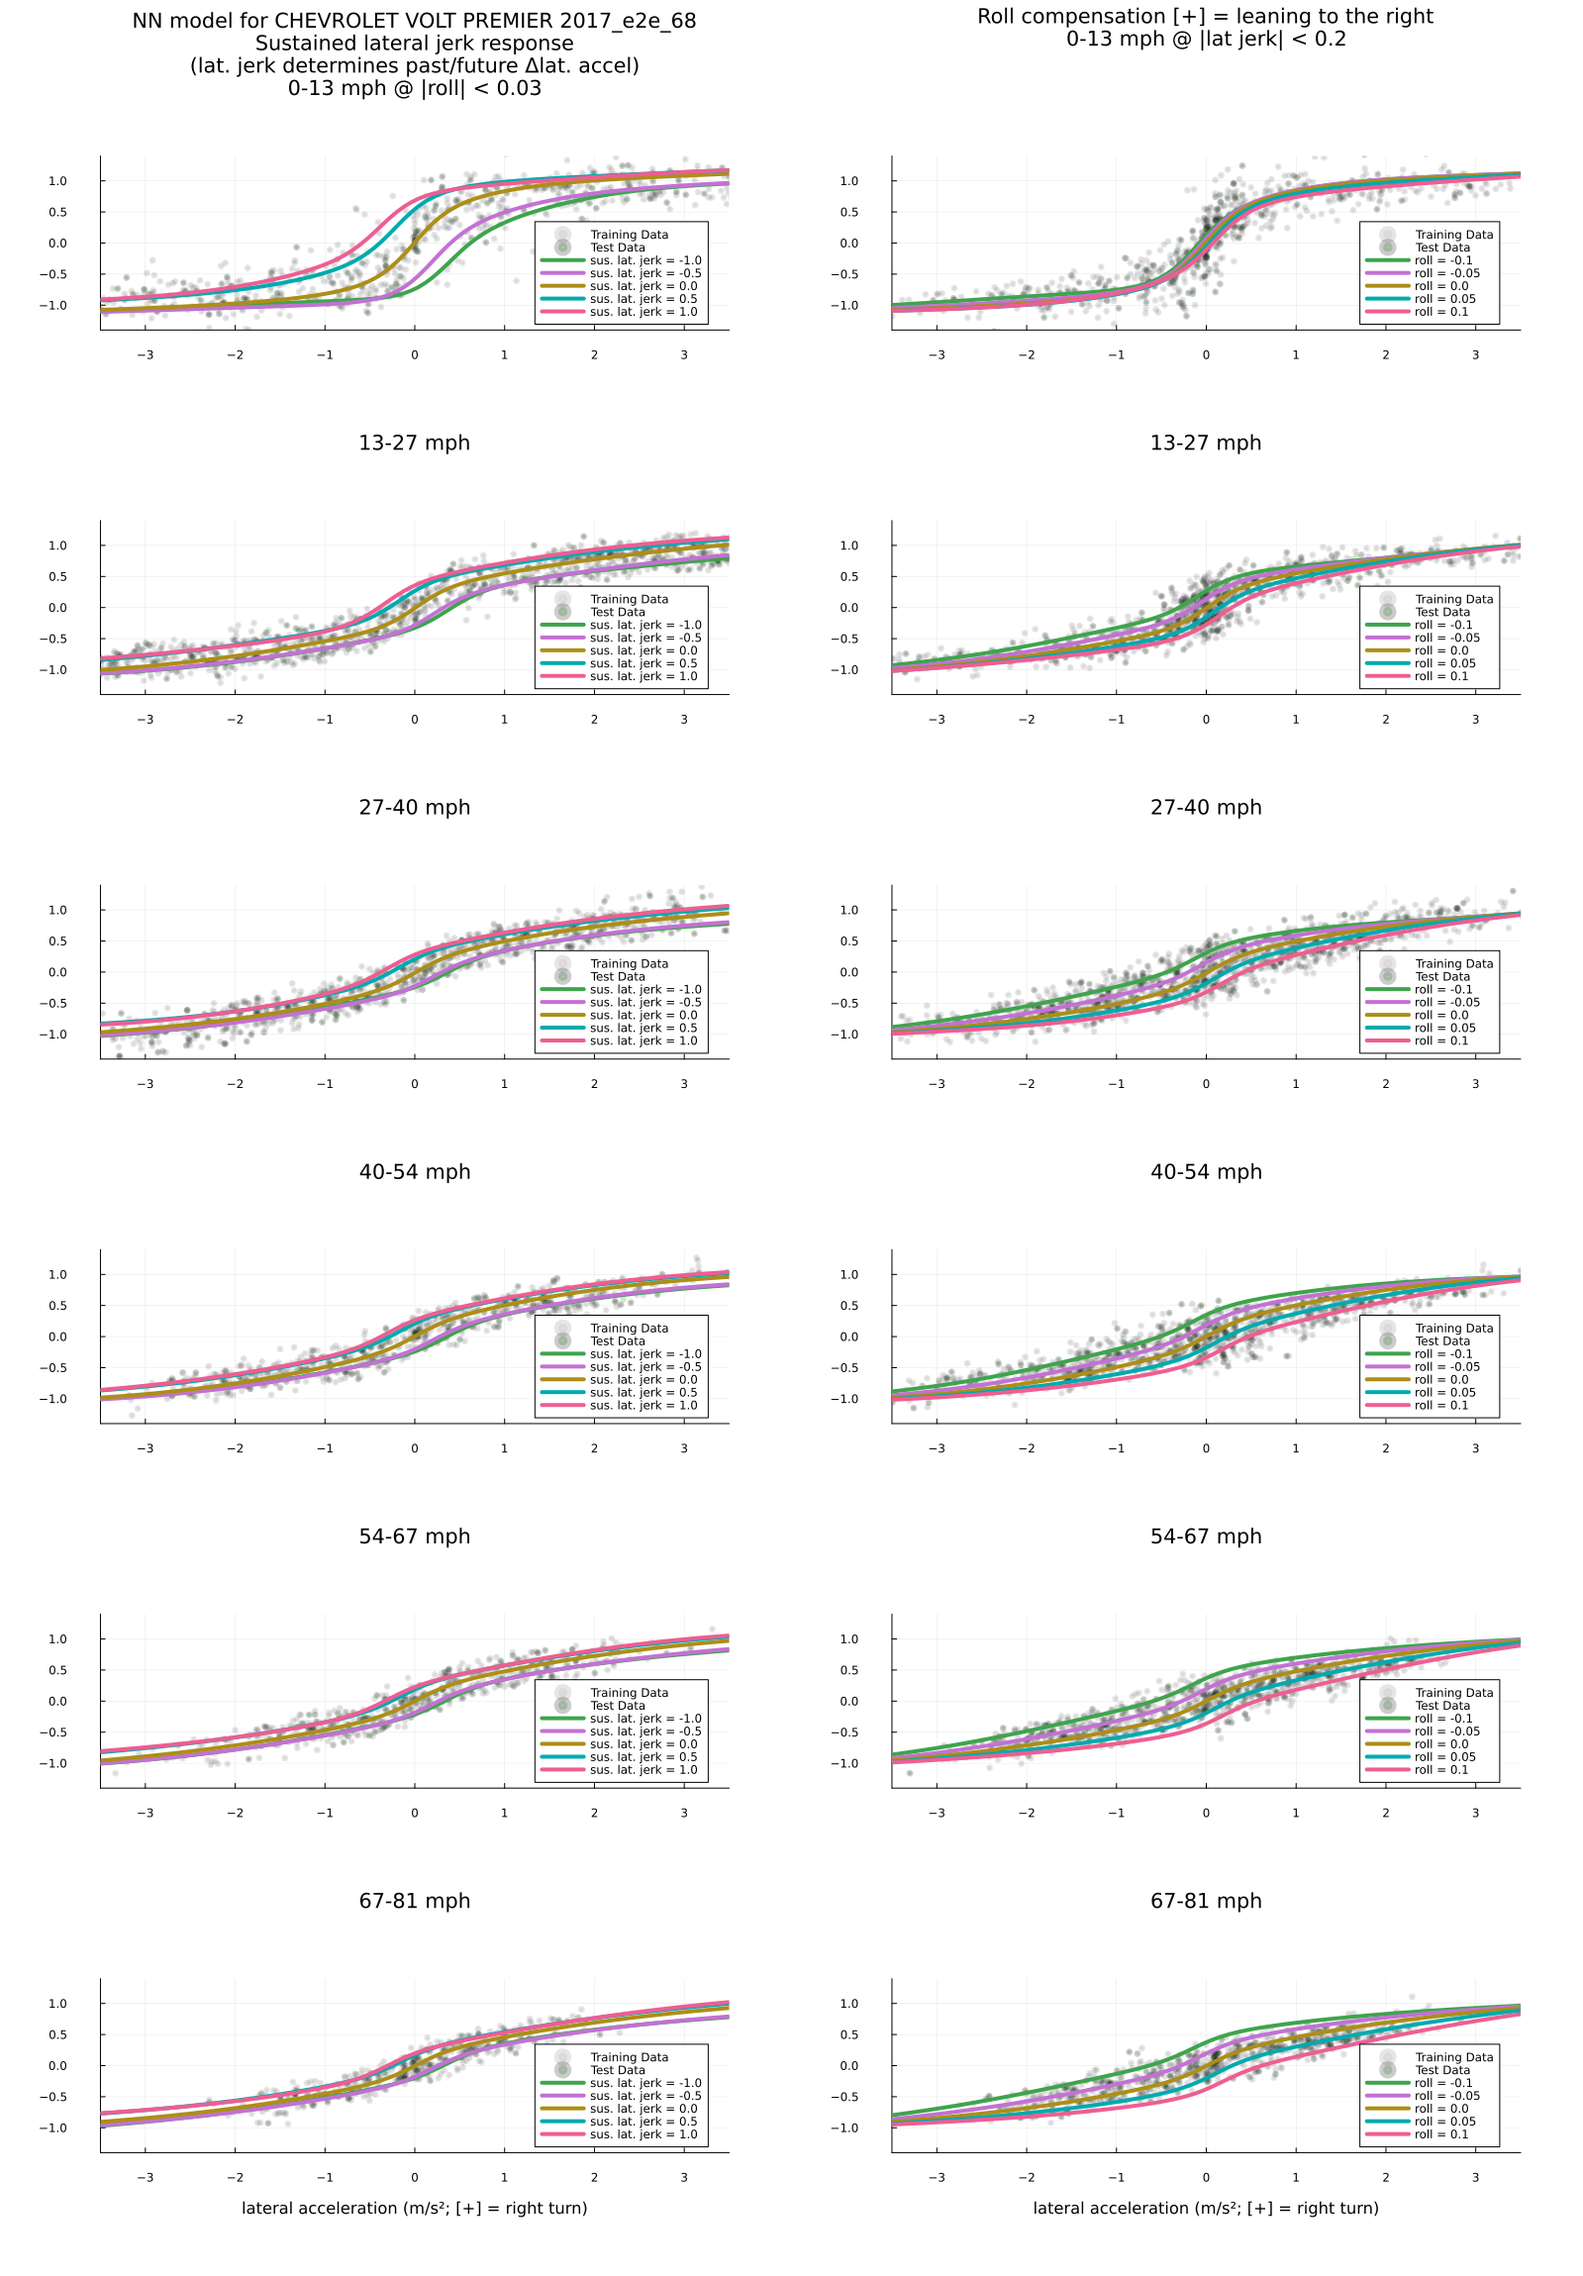
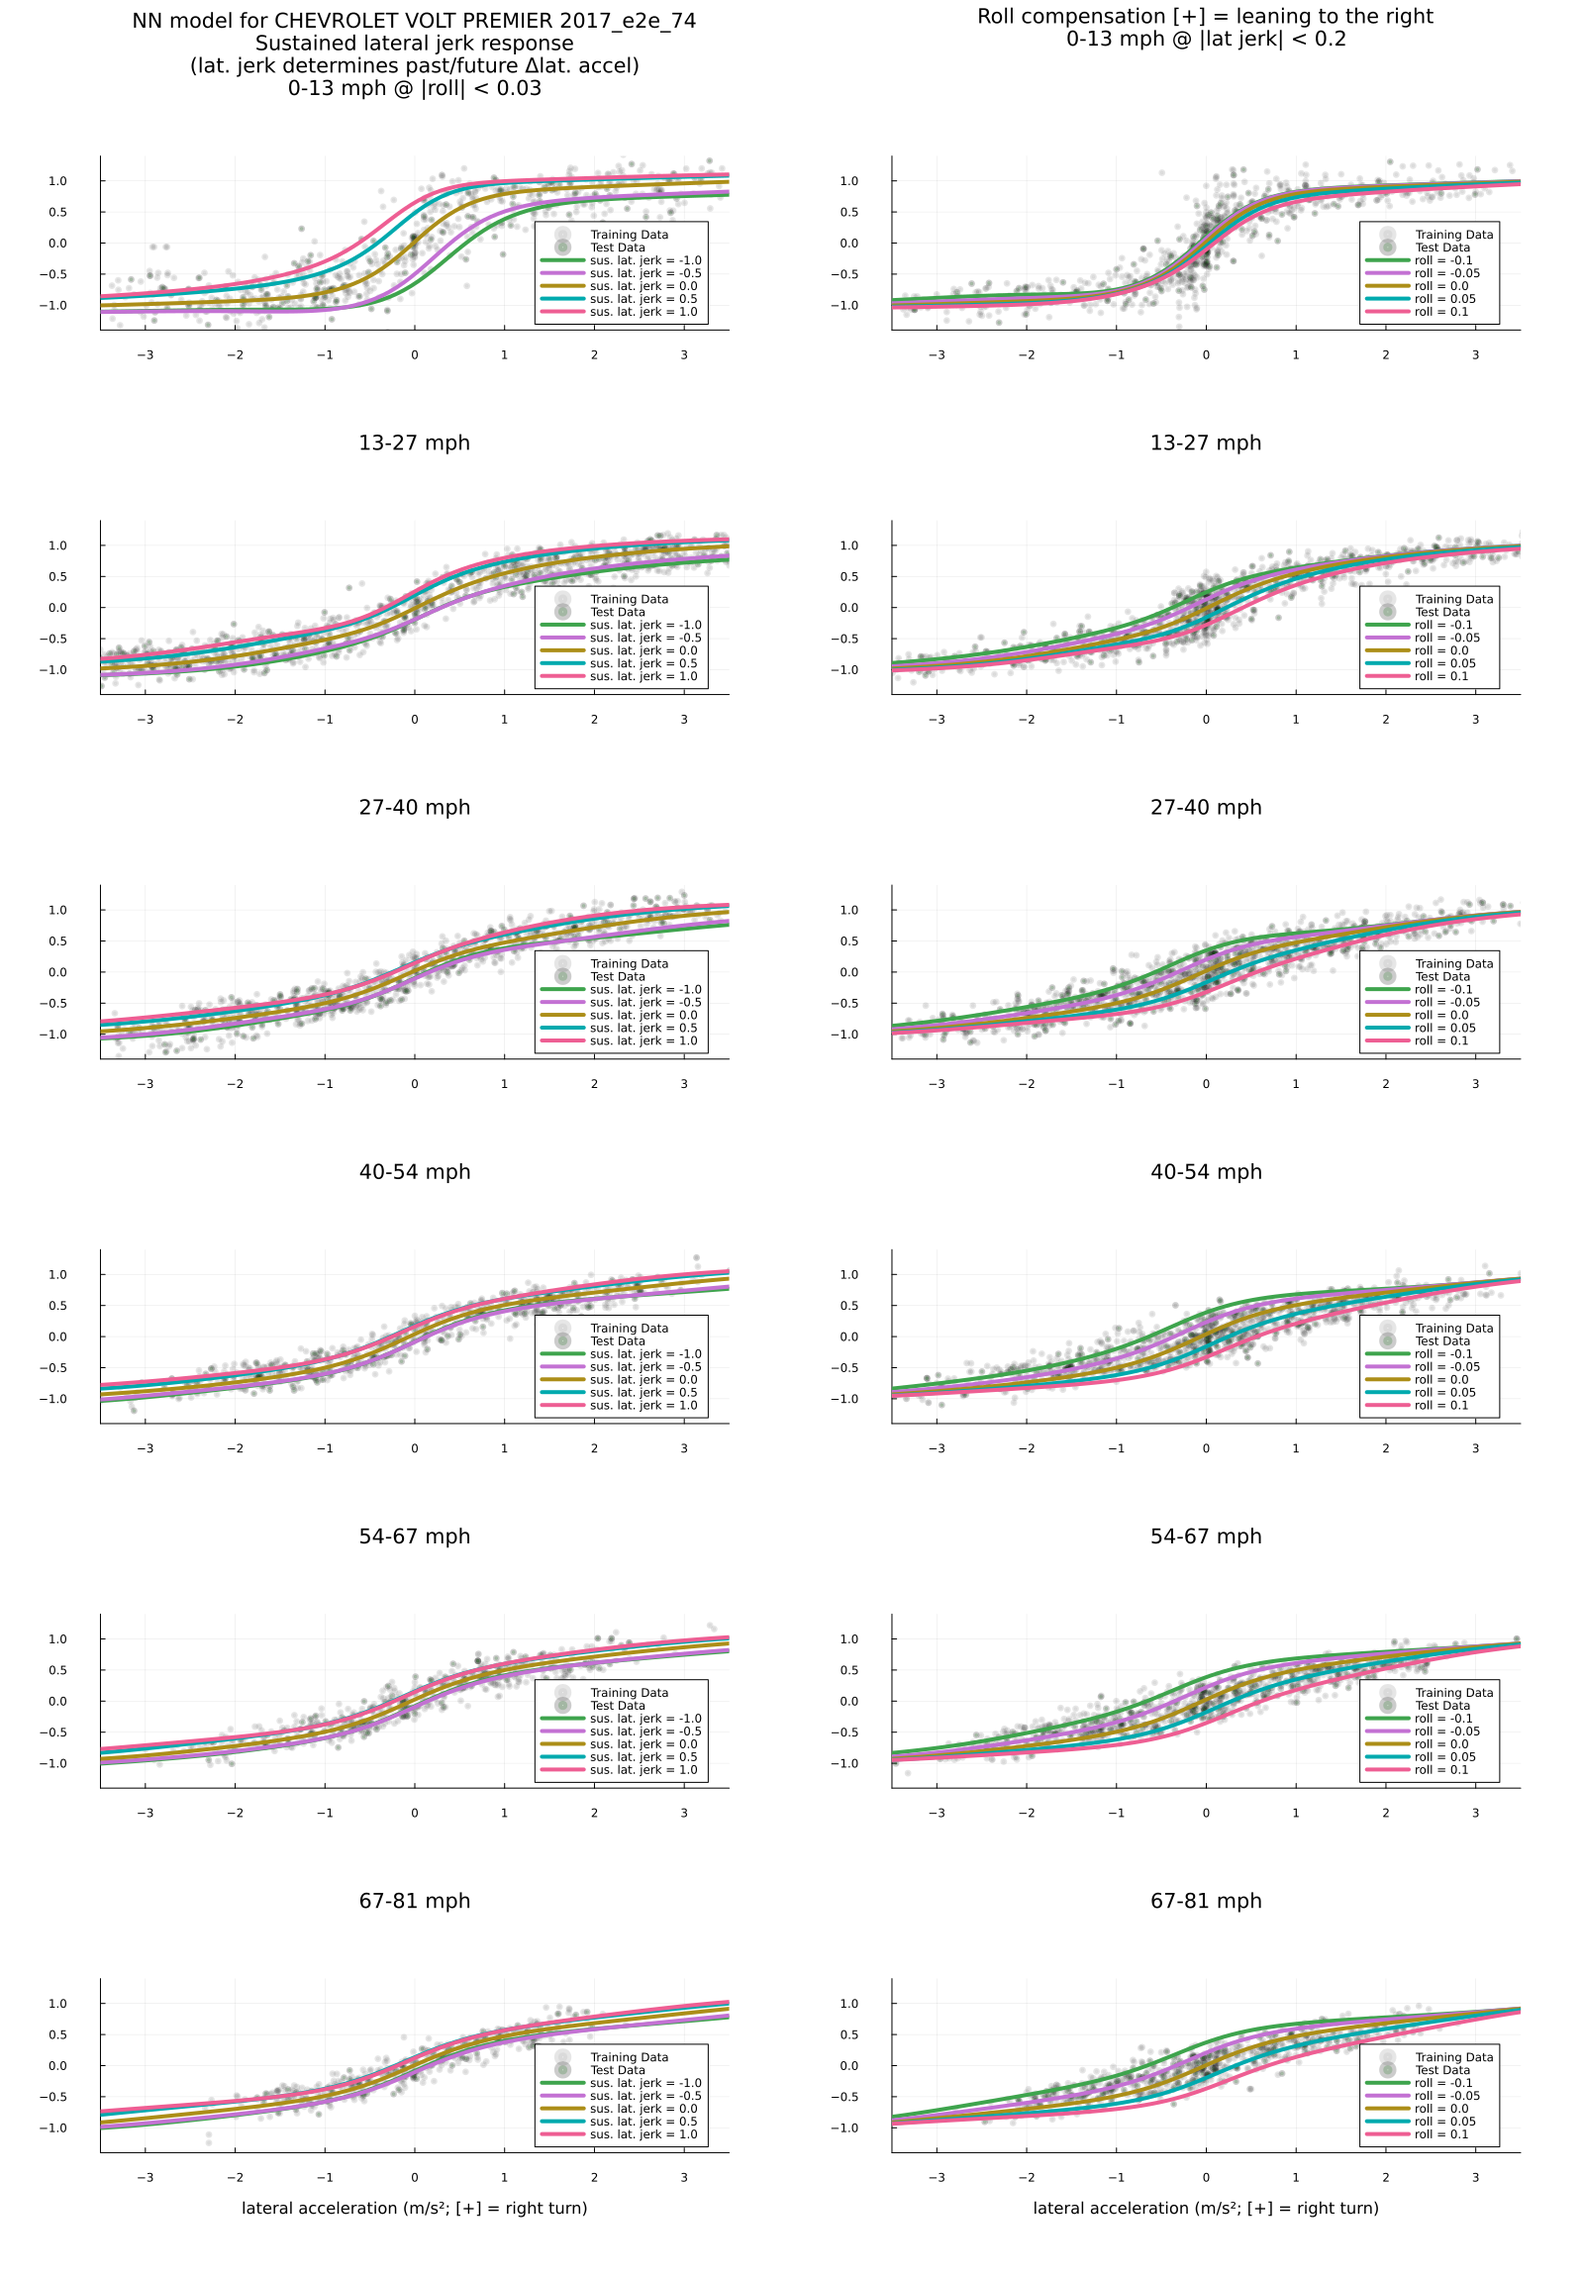
volt e2e nnff mk6

diff --git a/selfdrive/controls/lib/latcontrol_torque.py b/selfdrive/controls/lib/latcontrol_torque.py
@@ -54,12 +54,6 @@ class LatControlTorque(LatControl):
       self.roll_deque = deque(maxlen=history_frames)
       self.nnff_alpha_up_down = [0.3, 0.15] # for increasing/decreasing magnitude of lat accel/jerk
       # Scale down desired lateral acceleration under moderate curvature to prevent cutting corners.
-      self.nnff_la_scale_k_bp = [0.0] 
-      self.nnff_la_scale_k_v = [1.0]
-      # At very low speeds, stop downscaling lateral accel to still allow for hard turns.
-      # We'll do this by taking the max of the two scaling factors.
-      self.nnff_la_scale_v_bp = [6.0, 10.0]
-      self.nnff_la_scale_v_v = [1.0, min(self.nnff_la_scale_k_v)]
 
     self.param_s = Params()
     self.custom_torque = self.param_s.get_bool("CustomTorqueLateral")
@@ -104,44 +98,6 @@ class LatControlTorque(LatControl):
       # desired_lateral_jerk = desired_curvature_rate * CS.vEgo ** 2
       actual_lateral_accel = actual_curvature * CS.vEgo ** 2
       lateral_accel_deadzone = curvature_deadzone * CS.vEgo ** 2
-      
-      if self.use_nn:
-        # prepare input data for NNFF model        
-        roll = params.roll
-        desired_roll = interp(self.nnff_time_offset, T_IDXS, model_data.orientation.x) + roll
-        alpha = self.nnff_alpha_up_down[0 if abs(desired_lateral_accel) > abs(self.nnff_lat_accel_filtered.x) else 1]
-        self.nnff_lat_accel_filtered.update_alpha(alpha)
-        self.nnff_lat_jerk_filtered.update_alpha(alpha)
-        self.nnff_lat_accel_filtered.update(desired_lateral_accel)
-        self.nnff_lat_jerk_filtered.update(desired_lateral_jerk)
-        if len(self.lat_accel_deque) == self.lat_accel_deque.maxlen:
-          past_lat_accel = self.lat_accel_deque[0]
-          past_lat_jerk = self.lat_jerk_deque[0]
-          past_roll = self.roll_deque[0]
-        else:
-          past_lat_accel = actual_lateral_accel
-          past_lat_jerk = actual_lateral_jerk
-          past_roll = roll
-        self.lat_accel_deque.append(desired_lateral_accel)
-        self.lat_jerk_deque.append(desired_lateral_jerk)
-        self.roll_deque.append(roll)
-          
-        
-        friction = self.torque_from_lateral_accel(0.0, self.torque_params,
-                                          desired_lateral_accel - actual_lateral_accel,
-                                          lateral_accel_deadzone, friction_compensation=True)
-        friction *= self.error_scale_factor.x
-        
-        la_offset = 0.5 * (self.nnff_lat_accel_filtered.x - actual_lateral_accel)
-        lj_offset = 0.5 * (self.nnff_lat_jerk_filtered.x - actual_lateral_jerk)
-        roll_offset = 0.5 * (desired_roll - roll)
-        
-        nnff_input = [CS.vEgo, actual_lateral_accel + la_offset, actual_lateral_jerk + lj_offset, roll + roll_offset] \
-                    + [past_lat_accel + la_offset, self.nnff_lat_accel_filtered.x,
-                      past_lat_jerk + lj_offset, self.nnff_lat_jerk_filtered.x,
-                      past_roll + roll_offset, desired_roll]
-        ff = self.torque_from_nn(nnff_input)
-        ff += friction
 
       low_speed_factor = interp(CS.vEgo, LOW_SPEED_X, LOW_SPEED_Y_NNFF if self.use_nn else LOW_SPEED_Y)**2
       setpoint = desired_lateral_accel + low_speed_factor * desired_curvature
@@ -164,7 +120,29 @@ class LatControlTorque(LatControl):
       error *= self.error_scale_factor.x
       pid_log.error = error
       
-      if not self.use_nn:
+      if self.use_nn:
+        # prepare input data for NNFF model        
+        alpha = self.nnff_alpha_up_down[0 if abs(desired_lateral_accel) > abs(self.nnff_lat_accel_filtered.x) else 1]
+        self.nnff_lat_accel_filtered.update_alpha(alpha)
+        self.nnff_lat_jerk_filtered.update_alpha(alpha)
+        self.nnff_lat_accel_filtered.update(desired_lateral_accel)
+        self.nnff_lat_jerk_filtered.update(desired_lateral_jerk)
+        
+        roll = params.roll
+        delta_lat_accel = self.nnff_lat_accel_filtered.x - actual_lateral_accel
+        delta_lat_jerk = self.nnff_lat_jerk_filtered.x - actual_lateral_jerk
+        delta_roll = interp(self.nnff_time_offset, T_IDXS, model_data.orientation.x)
+          
+        friction = self.torque_from_lateral_accel(0.0, self.torque_params,
+                                          desired_lateral_accel - actual_lateral_accel,
+                                          lateral_accel_deadzone, friction_compensation=True)
+        friction *= self.error_scale_factor.x
+        
+        nnff_input = [CS.vEgo, self.nnff_lat_accel_filtered.x, self.nnff_lat_jerk_filtered.x, roll] \
+                    + [delta_lat_accel, delta_lat_jerk, delta_roll]
+        ff = self.torque_from_nn(nnff_input)
+        ff += friction * self.error_scale_factor.x
+      else:
         ff = self.torque_from_lateral_accel(gravity_adjusted_lateral_accel, self.torque_params,
                                           desired_lateral_accel - actual_lateral_accel,
                                           lateral_accel_deadzone, friction_compensation=True)

diff --git a/selfdrive/car/interfaces.py b/selfdrive/car/interfaces.py
@@ -90,7 +90,7 @@ class FluxModel:
       # v1 has an input of 4 (v_ego, lateral_accel, lateral_jerk, roll)
       # v2 has an input of 20 (v_ego, a_ego, lateral_accel, lateral_jerk, roll, <then three groups of five points with lat accel, lat jerk, and roll data for at one past point -0.3s, and four future points 0.3, 0.6, 1.1, 2.0s, where the 0.3s values are actually the "desired" values when calling the model>) 
       if self.input_size == 4: # leave out a_ego and anything after the first 5 values
-        input_array = [input_array[0], input_array[5], input_array[7], -input_array[3]]
+        input_array = [input_array[0], input_array[1], input_array[2], -input_array[3]]
       else:
         raise ValueError(f"Input array length {len(input_array)} does not match the expected length {self.input_size}")
         
